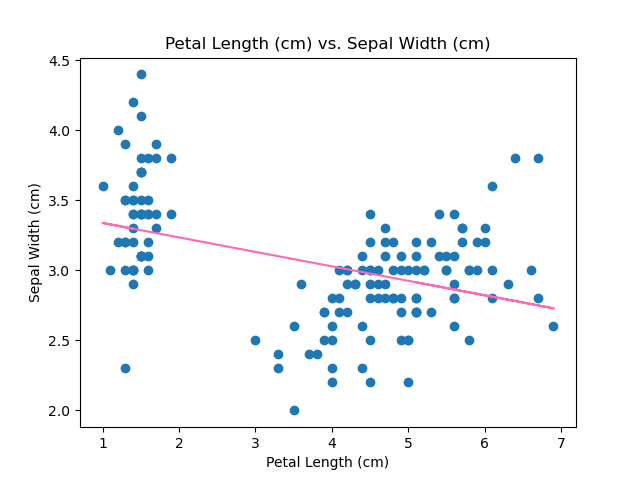
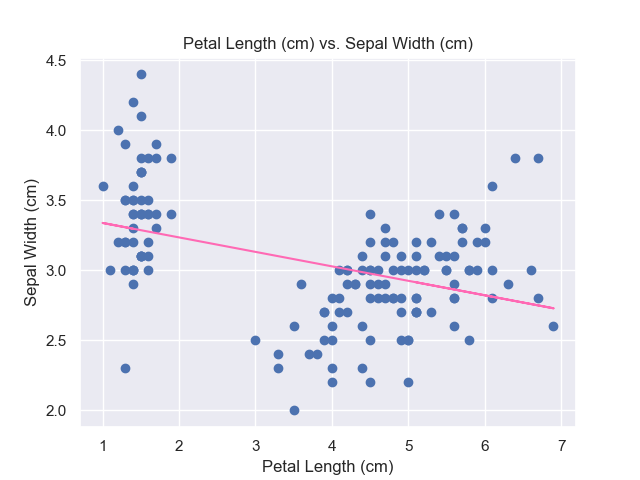
attempted to generate heatmap

diff --git a/analysis.py b/analysis.py
@@ -6,14 +6,16 @@
 import matplotlib.pyplot as plt
 import numpy as np
 import pandas as pd
-
+import seaborn as sns
+from sklearn import metrics
+sns.set_theme()
 
 # loading the iris data set
 df = pd.read_csv("iris.csv")
 
 # create the file we'll save a summary of the variables in and open it in write mode
 file = open("Variable Summary.txt", "w")
-# give an overview of tha data annd add the averages for each variable to the text file
+# give an overview of tha data and add the averages for each variable to the text file
 file.write(f"This is an overview of the data in the set: \n\n{df}\n\nThese are the average values for each of the variables in this dataset: \n\n{df.describe()}\n\nCalculating the correlation coefficients for each pair of variables allows us to see if there's any correlation between them.\nThe closer the coefficient is to 1/-1, the stronger the correlation.\nThe closer the coefficient is to 0, the weaker the correlation")
 # close the text file
 file.close()
@@ -113,3 +115,12 @@ x_axis = ("Petal Width (cm)")
 y_axis  = ("Sepal Width (cm)")
 scatter = generate_scatter(variable1,variable2)
 
+# following section doesn't work yet
+'''
+plt.figure()
+# plot heatmap with labels for each square
+sns.heatmap(df(), annot=True, ) 
+plt.plot()
+# show heatmap
+plt.show()
+'''
